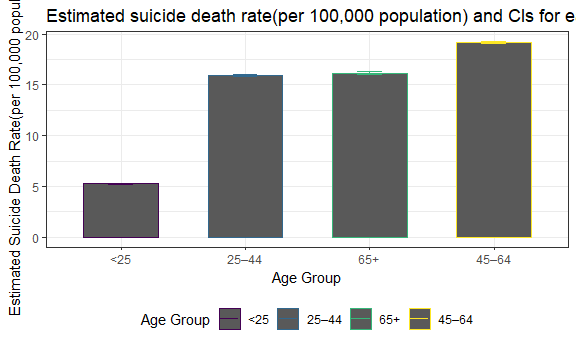
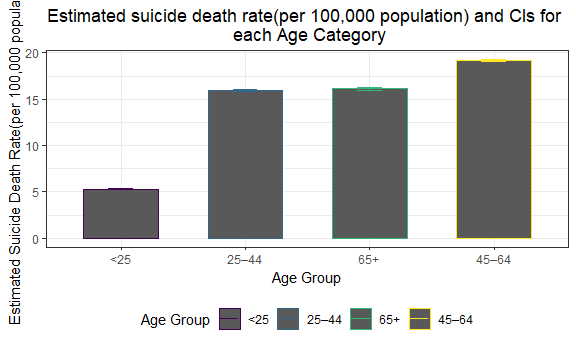
small edits made to figure

diff --git a/p8105_fp_ds100_jl5296.md b/p8105_fp_ds100_jl5296.md
@@ -108,8 +108,9 @@ test_data2 %>%
   ggplot(aes(x = age_group_years, y = estimate, color = age_group_years)) +
   geom_bar(stat = "identity", position = position_dodge(), width = .6) +
   geom_errorbar(aes(ymin = conf.low , ymax = conf.high), width = .2) +
+  theme(plot.title = element_text(hjust = .5)) +
   labs(
-    title = "Estimated suicide death rate(per 100,000 population) and CIs for each Age Category",
+    title = "Estimated suicide death rate(per 100,000 population) and CIs for \n each Age Category",
     x = "Age Group",
     y = "Estimated Suicide Death Rate(per 100,000 population)"
   ) +
